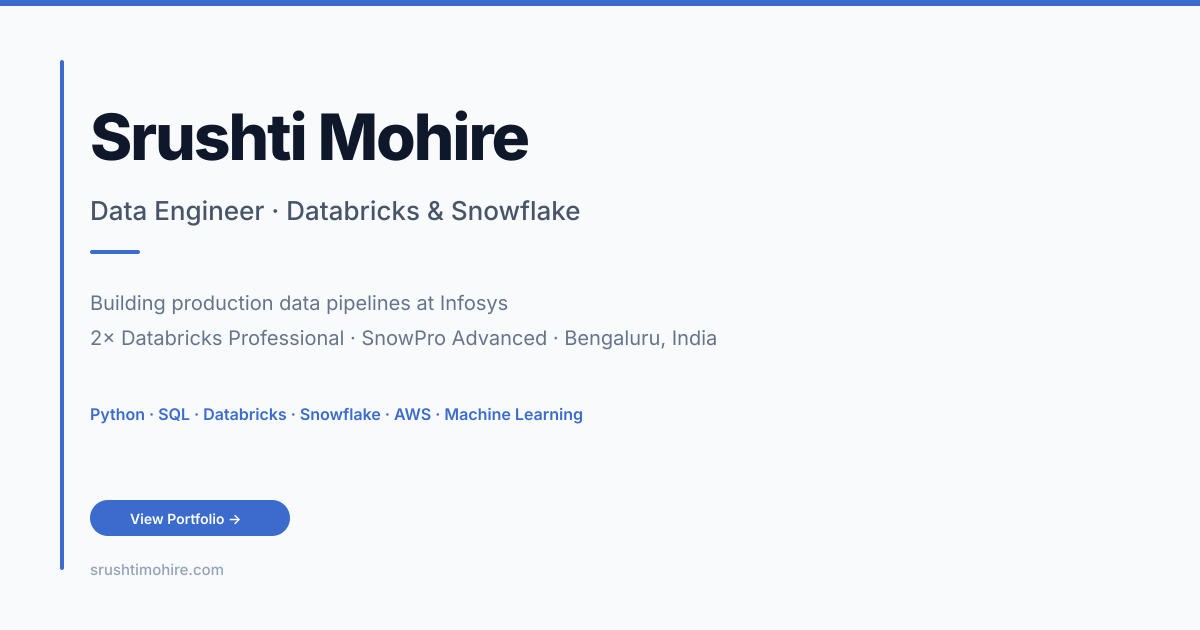
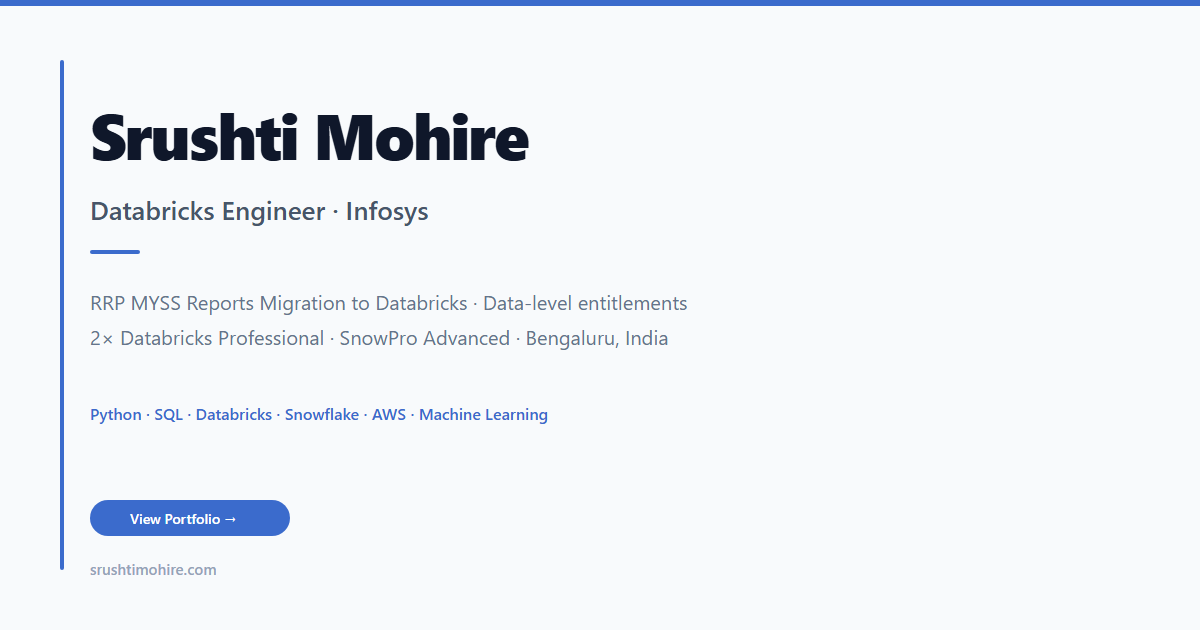
Name consistency, new reporting skills, refreshed social preview image

diff --git a/lib/content.js b/lib/content.js
@@ -27,6 +27,10 @@ export const SKILLS = {
     { name: 'Snowflake', icon: '❄', color: '#dbeafe' },
     { name: 'SQL', icon: '🗄', color: '#dbeafe' },
     { name: 'ETL / ELT Pipelines', icon: '🔧', color: '#ede9fe' },
+    { name: 'Databricks SQL', icon: '🧮', color: '#fce7f3' },
+    { name: 'Report Migration', icon: '🔀', color: '#dbeafe' },
+    { name: 'Data Validation & Testing', icon: '✅', color: '#d1fae5' },
+    { name: 'Data-level Entitlements / Access Control', icon: '🔐', color: '#fef3c7' },
     { name: 'Power BI', icon: '📊', color: '#fef3c7' },
     { name: 'AWS', icon: '☁', color: '#fff7ed' },
   ],
@@ -165,7 +169,8 @@ export const PRO_CERT_COUNT = CERTS.filter((c) => /professional|advanced/i.test(
 export const RESUME_SKILLS = Object.values(SKILLS).flat().map((s) => s.name);
 
 export const RESUME_SKILL_GROUPS = [
-  ['Data Engineering', 'Databricks, Snowflake, SQL, ETL/ELT pipelines, Power BI, AWS'],
+  ['Data Engineering', 'Databricks, Databricks SQL, Snowflake, SQL, ETL/ELT pipelines, Power BI, AWS'],
+  ['Reporting & Governance', 'Report migration, data validation & testing, data-level entitlements / access control'],
   ['Languages', 'Python, Java, Unix/Shell, C, C#'],
   ['Databases', 'MySQL, PostgreSQL, Oracle DB, JDBC'],
   ['AI / ML', 'Machine Learning, Generative AI / LLMs, RAG'],

diff --git a/components/Nav.jsx b/components/Nav.jsx
@@ -67,7 +67,7 @@ export function Nav() {
           onMouseLeave={() => setLogoHover(false)}
           style={{ textDecoration: 'none', cursor: 'pointer', position: 'relative' }}
         >
-          <span className="nav-logo-text">Srushti KM</span>
+          <span className="nav-logo-text">Srushti Mohire</span>
           <span className={`logo-hello ${logoHover ? 'show' : ''}`}>
             <span className="logo-hello-girl">👩</span>
             <span className="logo-hello-text">Hello!</span>
